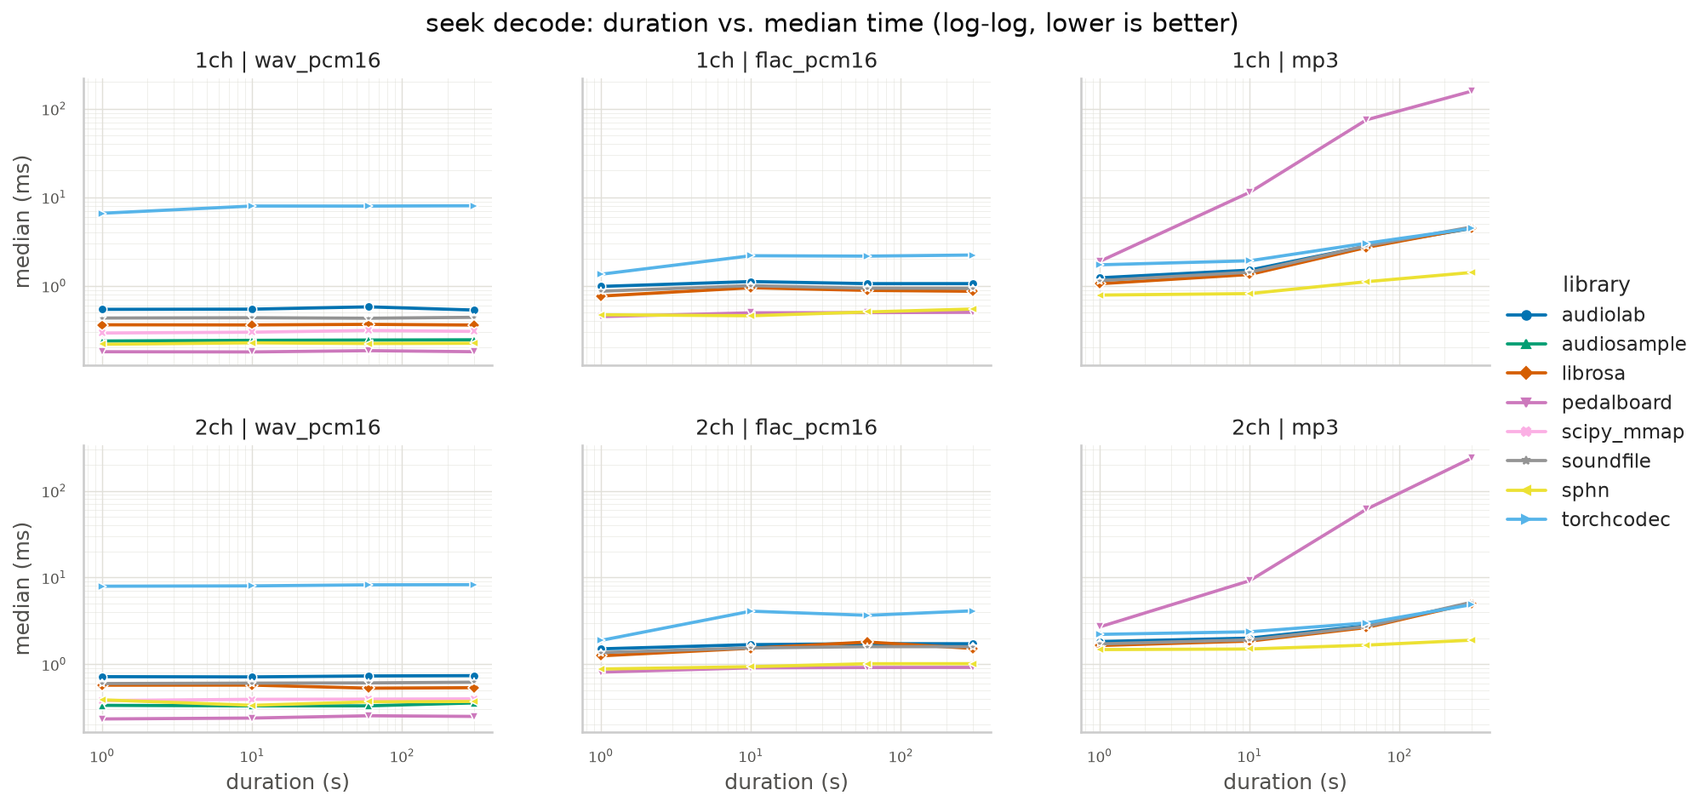
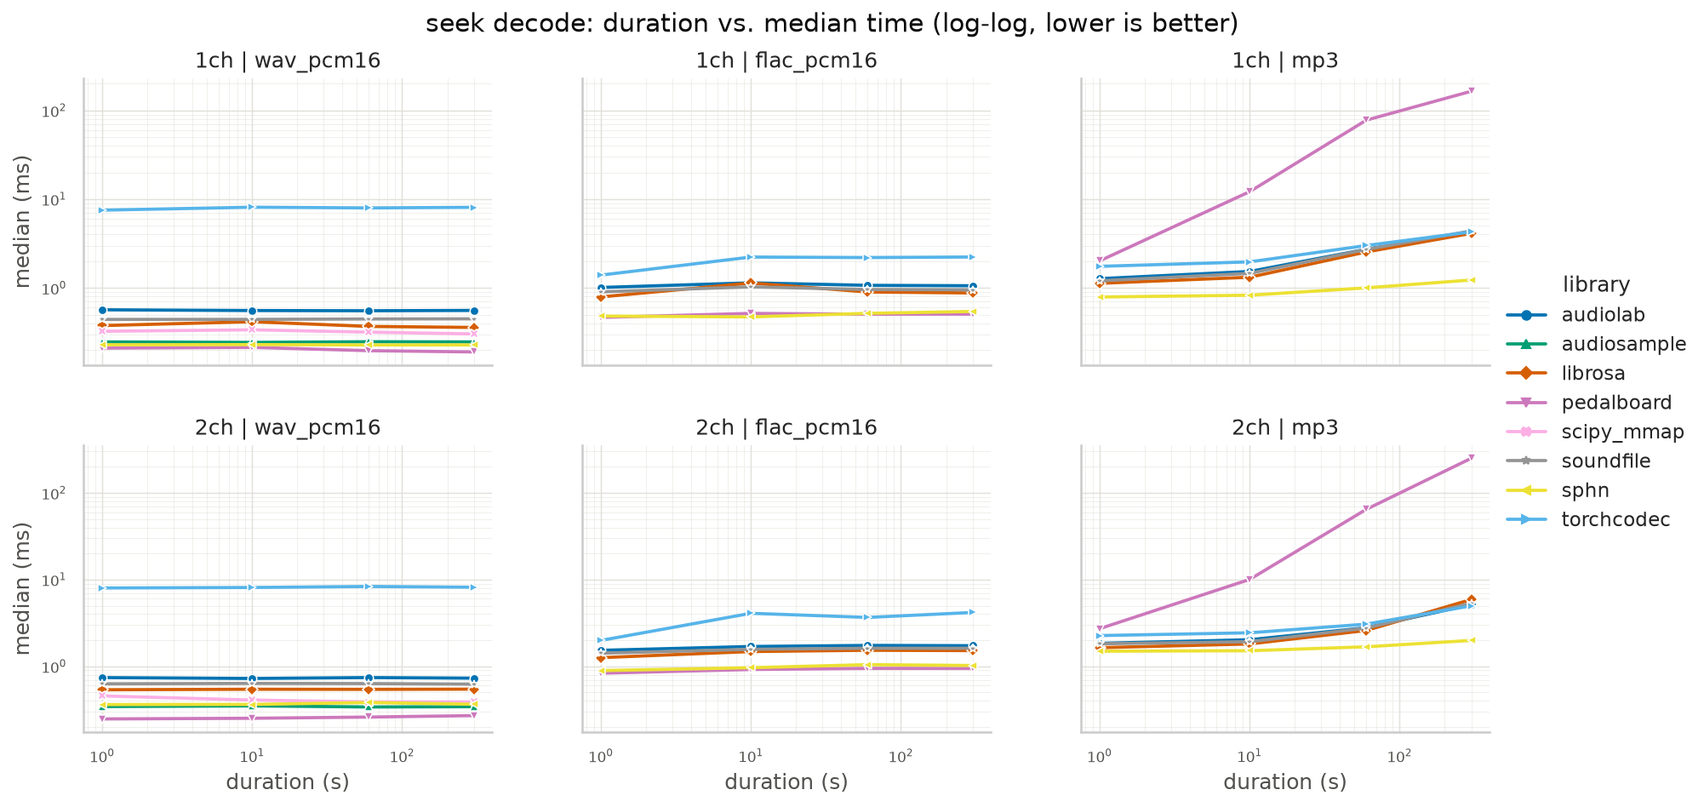
new bench

diff --git a/results/report.md b/results/report.md
@@ -12,6 +12,7 @@ Timings below are wall-clock, warm-page-cache decodes of a locally generated **s
 | PyTorch | 2.14.0+cu130 |
 | FFmpeg | ffmpeg version n8.0.1-48-g0592be14ff-20260116 Copyright (c) 2000-2025 the FFmpeg developers |
 | DYLD_FALLBACK_LIBRARY_PATH | - |
+| FLAC seektables | absent (seeking must scan frames) |
 
 ## Libraries
 
@@ -34,79 +35,79 @@ Timings below are wall-clock, warm-page-cache decodes of a locally generated **s
 
 | Duration (s) | Channels | soundfile | librosa | scipy | scipy_mmap | audioread | pedalboard | torchcodec | audiolab | audiosample | sphn |
 | --- | --- | --- | --- | --- | --- | --- | --- | --- | --- | --- | --- |
-| 1 | 1 | 0.36 ms [0.35–0.40] | 0.36 ms [0.34–0.38] | 0.23 ms [0.22–0.24] | 0.28 ms [0.26–0.29] | 0.39 ms [0.37–0.39] | 0.18 ms [0.18–0.23] | 6.68 ms [6.58–6.81] | 0.57 ms [0.56–0.58] | 0.22 ms [0.22–0.23] | 0.24 ms [0.23–0.25] |
-| 1 | 2 | 0.53 ms [0.52–0.54] | 0.53 ms [0.51–0.54] | 0.32 ms [0.32–0.33] | 0.37 ms [0.36–0.39] | 0.54 ms [0.53–0.54] | 0.22 ms [0.22–0.24] | 7.90 ms [7.82–8.04] | 0.74 ms [0.73–0.78] | 0.32 ms [0.31–0.32] | 0.38 ms [0.37–0.38] |
-| 10 | 1 | 1.40 ms [1.38–1.44] | 1.43 ms [1.38–1.45] | 0.78 ms [0.78–0.80] | 0.83 ms [0.79–0.85] | 2.19 ms [2.17–2.23] | 0.66 ms [0.65–0.67] | 9.51 ms [9.43–10.05] | 2.02 ms [1.99–2.06] | 0.61 ms [0.60–0.63] | 1.67 ms [1.65–1.80] |
-| 10 | 2 | 3.25 ms [3.19–3.27] | 3.32 ms [3.25–3.39] | 1.78 ms [1.76–1.80] | 1.91 ms [1.71–2.16] | 3.83 ms [3.75–3.86] | 1.23 ms [1.22–1.29] | 11.24 ms [11.16–11.37] | 3.79 ms [3.75–3.88] | 1.59 ms [1.57–1.63] | 2.98 ms [2.97–3.05] |
-| 60 | 1 | 7.18 ms [7.09–7.25] | 7.31 ms [7.27–7.62] | 3.85 ms [3.82–3.87] | 3.88 ms [3.80–4.12] | 12.34 ms [12.27–12.39] | 3.52 ms [3.50–3.61] | 17.81 ms [17.74–18.05] | 9.37 ms [9.12–9.54] | 2.84 ms [2.83–2.95] | 10.25 ms [10.22–10.37] |
-| 60 | 2 | 18.90 ms [18.74–18.97] | 19.01 ms [18.94–19.17] | 11.29 ms [10.87–11.84] | 11.09 ms [10.77–11.57] | 22.36 ms [22.23–22.60] | 7.19 ms [7.14–7.33] | 29.06 ms [28.98–30.34] | 19.38 ms [19.20–19.55] | 9.08 ms [9.06–9.15] | 19.28 ms [19.22–19.52] |
-| 300 | 1 | 43.42 ms [42.95–43.59] | 42.77 ms [42.39–42.95] | 32.90 ms [31.90–37.46] | 28.13 ms [28.03–28.41] | 73.43 ms [72.94–74.37] | 24.77 ms [24.52–24.88] | 100.53 ms [83.45–104.48] | 52.91 ms [52.43–53.48] | 20.70 ms [20.38–20.91] | 76.16 ms [76.07–76.29] |
-| 300 | 2 | 126.53 ms [126.43–127.46] | 127.08 ms [126.70–127.47] | 116.35 ms [114.11–117.62] | 97.61 ms [97.34–98.42] | 169.68 ms [169.14–172.47] | 53.58 ms [53.15–54.79] | 154.56 ms [153.94–156.85] | 113.75 ms [113.35–114.15] | 103.15 ms [103.02–103.55] | 147.82 ms [147.46–148.45] |
+| 1 | 1 | 0.38 ms [0.36–0.56] | 0.38 ms [0.37–0.40] | 0.26 ms [0.22–0.28] | 0.30 ms [0.28–0.32] | 0.40 ms [0.37–0.44] | 0.19 ms [0.18–0.26] | 7.30 ms [6.55–7.89] | 0.60 ms [0.58–0.61] | 0.23 ms [0.22–0.25] | 0.25 ms [0.24–0.26] |
+| 1 | 2 | 0.56 ms [0.54–0.81] | 0.54 ms [0.52–0.59] | 0.33 ms [0.32–0.39] | 0.43 ms [0.40–0.46] | 0.54 ms [0.53–0.63] | 0.25 ms [0.24–0.28] | 8.48 ms [7.90–9.25] | 0.78 ms [0.75–0.80] | 0.32 ms [0.32–0.34] | 0.39 ms [0.38–0.40] |
+| 10 | 1 | 1.45 ms [1.42–1.50] | 1.45 ms [1.41–1.49] | 0.82 ms [0.79–0.88] | 0.83 ms [0.77–0.90] | 2.64 ms [2.21–2.77] | 0.71 ms [0.70–0.85] | 9.72 ms [9.65–9.99] | 2.05 ms [1.99–2.14] | 0.64 ms [0.62–0.68] | 1.71 ms [1.69–1.75] |
+| 10 | 2 | 3.35 ms [3.29–3.41] | 3.43 ms [3.36–3.50] | 1.91 ms [1.84–2.01] | 1.94 ms [1.87–2.07] | 3.93 ms [3.84–4.58] | 1.39 ms [1.32–1.67] | 11.57 ms [11.45–11.73] | 3.91 ms [3.84–4.04] | 1.66 ms [1.64–1.67] | 3.06 ms [3.04–3.17] |
+| 60 | 1 | 7.39 ms [7.31–7.56] | 7.43 ms [7.38–7.53] | 4.03 ms [3.90–4.21] | 3.75 ms [3.70–3.87] | 13.11 ms [12.43–15.11] | 3.99 ms [3.72–4.63] | 18.93 ms [18.18–19.23] | 9.97 ms [9.64–10.13] | 3.04 ms [3.00–3.14] | 9.75 ms [9.71–9.91] |
+| 60 | 2 | 19.57 ms [19.23–20.08] | 19.56 ms [19.48–19.79] | 11.36 ms [11.18–11.59] | 11.15 ms [10.95–11.77] | 23.82 ms [22.56–24.93] | 7.96 ms [7.57–9.04] | 29.84 ms [29.53–31.70] | 19.89 ms [19.66–20.44] | 9.21 ms [9.17–9.30] | 18.42 ms [18.38–18.60] |
+| 300 | 1 | 44.66 ms [44.21–45.27] | 43.80 ms [43.58–43.95] | 34.35 ms [33.20–37.52] | 29.97 ms [29.21–31.19] | 79.92 ms [77.88–87.37] | 27.43 ms [26.11–28.27] | 106.75 ms [84.65–109.12] | 53.81 ms [53.35–54.60] | 20.86 ms [20.54–21.16] | 82.42 ms [82.23–82.78] |
+| 300 | 2 | 126.38 ms [126.10–126.70] | 127.54 ms [126.99–128.44] | 122.33 ms [118.35–124.99] | 102.43 ms [101.03–103.57] | 182.11 ms [174.66–185.50] | 55.96 ms [55.51–56.72] | 154.16 ms [151.89–174.35] | 112.30 ms [111.53–112.90] | 100.42 ms [100.05–100.91] | 155.32 ms [154.93–156.88] |
 
 ## wav_pcm16 / seek
 
 | Duration (s) | Channels | soundfile | librosa | scipy | scipy_mmap | audioread | pedalboard | torchcodec | audiolab | audiosample | sphn |
 | --- | --- | --- | --- | --- | --- | --- | --- | --- | --- | --- | --- |
-| 1 | 1 | 0.43 ms [0.42–0.62] | 0.36 ms [0.35–0.37] | unsupported | 0.29 ms [0.29–0.31] | unsupported | 0.18 ms [0.18–0.22] | 6.60 ms [6.53–6.72] | 0.54 ms [0.53–0.56] | 0.24 ms [0.24–0.24] | 0.22 ms [0.22–0.22] |
-| 1 | 2 | 0.60 ms [0.58–0.62] | 0.57 ms [0.55–0.67] | unsupported | 0.38 ms [0.37–0.38] | unsupported | 0.23 ms [0.23–0.24] | 7.94 ms [7.79–8.03] | 0.72 ms [0.69–0.73] | 0.34 ms [0.32–0.34] | 0.39 ms [0.35–0.41] |
-| 10 | 1 | 0.44 ms [0.43–0.50] | 0.36 ms [0.35–0.40] | unsupported | 0.30 ms [0.29–0.32] | unsupported | 0.18 ms [0.17–0.19] | 7.97 ms [7.84–8.04] | 0.54 ms [0.54–0.58] | 0.24 ms [0.24–0.25] | 0.23 ms [0.22–0.24] |
-| 10 | 2 | 0.60 ms [0.58–0.61] | 0.57 ms [0.55–0.58] | unsupported | 0.39 ms [0.38–0.41] | unsupported | 0.24 ms [0.23–0.25] | 8.01 ms [7.95–8.09] | 0.71 ms [0.68–0.76] | 0.33 ms [0.33–0.34] | 0.34 ms [0.33–0.35] |
-| 60 | 1 | 0.43 ms [0.42–0.53] | 0.37 ms [0.36–0.38] | unsupported | 0.31 ms [0.30–0.35] | unsupported | 0.19 ms [0.18–0.21] | 7.96 ms [7.82–8.00] | 0.58 ms [0.57–0.60] | 0.24 ms [0.24–0.25] | 0.22 ms [0.22–0.23] |
-| 60 | 2 | 0.61 ms [0.59–0.63] | 0.53 ms [0.52–0.54] | unsupported | 0.40 ms [0.39–0.41] | unsupported | 0.25 ms [0.24–0.27] | 8.23 ms [8.19–8.35] | 0.73 ms [0.71–0.77] | 0.33 ms [0.32–0.36] | 0.37 ms [0.37–0.37] |
-| 300 | 1 | 0.44 ms [0.42–0.45] | 0.36 ms [0.35–0.37] | unsupported | 0.31 ms [0.29–0.31] | unsupported | 0.18 ms [0.18–0.19] | 8.02 ms [7.99–8.06] | 0.53 ms [0.52–0.55] | 0.25 ms [0.24–0.25] | 0.22 ms [0.22–0.23] |
-| 300 | 2 | 0.62 ms [0.60–0.63] | 0.54 ms [0.52–0.55] | unsupported | 0.40 ms [0.39–0.42] | unsupported | 0.25 ms [0.24–0.26] | 8.27 ms [8.23–8.29] | 0.74 ms [0.71–0.78] | 0.36 ms [0.34–0.39] | 0.37 ms [0.36–0.38] |
+| 1 | 1 | 0.44 ms [0.43–0.48] | 0.38 ms [0.37–0.40] | unsupported | 0.32 ms [0.29–0.39] | unsupported | 0.21 ms [0.19–0.25] | 7.53 ms [6.68–7.86] | 0.57 ms [0.55–0.59] | 0.25 ms [0.24–0.26] | 0.23 ms [0.22–0.29] |
+| 1 | 2 | 0.63 ms [0.59–0.71] | 0.54 ms [0.53–0.56] | unsupported | 0.46 ms [0.41–0.49] | unsupported | 0.25 ms [0.24–0.28] | 8.01 ms [7.85–9.40] | 0.74 ms [0.72–0.79] | 0.34 ms [0.33–0.36] | 0.36 ms [0.35–0.37] |
+| 10 | 1 | 0.44 ms [0.43–0.80] | 0.42 ms [0.36–0.48] | unsupported | 0.34 ms [0.29–0.38] | unsupported | 0.21 ms [0.18–0.25] | 8.12 ms [8.00–8.43] | 0.56 ms [0.54–0.59] | 0.24 ms [0.24–0.25] | 0.23 ms [0.23–0.23] |
+| 10 | 2 | 0.63 ms [0.62–0.65] | 0.54 ms [0.52–0.56] | unsupported | 0.41 ms [0.39–0.45] | unsupported | 0.25 ms [0.24–0.32] | 8.12 ms [8.06–8.25] | 0.72 ms [0.70–0.76] | 0.35 ms [0.33–0.39] | 0.36 ms [0.36–0.37] |
+| 60 | 1 | 0.45 ms [0.44–0.46] | 0.37 ms [0.35–0.42] | unsupported | 0.32 ms [0.29–0.34] | unsupported | 0.20 ms [0.19–0.26] | 7.97 ms [7.86–8.05] | 0.55 ms [0.53–0.59] | 0.25 ms [0.24–0.25] | 0.23 ms [0.22–0.24] |
+| 60 | 2 | 0.63 ms [0.62–0.65] | 0.54 ms [0.53–0.56] | unsupported | 0.39 ms [0.38–0.43] | unsupported | 0.26 ms [0.25–0.30] | 8.34 ms [8.23–8.42] | 0.74 ms [0.69–0.77] | 0.34 ms [0.33–0.35] | 0.38 ms [0.37–0.39] |
+| 300 | 1 | 0.45 ms [0.43–0.46] | 0.36 ms [0.35–0.38] | unsupported | 0.30 ms [0.29–0.33] | unsupported | 0.19 ms [0.18–0.22] | 8.10 ms [7.97–8.20] | 0.56 ms [0.53–0.58] | 0.25 ms [0.24–0.27] | 0.23 ms [0.22–0.24] |
+| 300 | 2 | 0.62 ms [0.61–0.64] | 0.55 ms [0.52–0.59] | unsupported | 0.39 ms [0.38–0.45] | unsupported | 0.27 ms [0.25–0.30] | 8.17 ms [8.08–8.35] | 0.73 ms [0.70–0.75] | 0.34 ms [0.33–0.36] | 0.37 ms [0.35–0.39] |
 
 ## flac_pcm16 / full
 
 | Duration (s) | Channels | soundfile | librosa | scipy | scipy_mmap | audioread | pedalboard | torchcodec | audiolab | audiosample | sphn |
 | --- | --- | --- | --- | --- | --- | --- | --- | --- | --- | --- | --- |
-| 1 | 1 | 0.80 ms [0.79–0.81] | 0.77 ms [0.76–0.78] | unsupported | unsupported | 17.85 ms [17.25–18.48] | 0.46 ms [0.45–0.52] | 1.39 ms [1.37–1.42] | 1.01 ms [0.99–1.02] | unsupported | 0.49 ms [0.48–0.49] |
-| 1 | 2 | 1.29 ms [1.28–1.36] | 1.25 ms [1.24–1.28] | unsupported | unsupported | 18.92 ms [18.39–19.54] | 0.80 ms [0.79–0.88] | 1.93 ms [1.91–2.00] | 1.53 ms [1.52–1.54] | unsupported | 0.90 ms [0.89–0.92] |
-| 10 | 1 | 5.37 ms [5.34–5.46] | 5.35 ms [5.34–5.39] | unsupported | unsupported | 21.40 ms [20.38–22.95] | 3.34 ms [3.32–3.38] | 6.85 ms [6.82–6.89] | 6.07 ms [6.03–6.11] | unsupported | 3.85 ms [3.85–3.89] |
-| 10 | 2 | 10.49 ms [10.47–10.60] | 10.59 ms [10.57–10.62] | unsupported | unsupported | 25.06 ms [24.25–26.37] | 6.92 ms [6.91–7.08] | 11.95 ms [11.90–12.00] | 11.10 ms [11.09–11.30] | unsupported | 7.72 ms [7.68–7.75] |
-| 60 | 1 | 30.83 ms [30.77–34.55] | 30.98 ms [30.87–31.06] | unsupported | unsupported | 33.84 ms [33.65–35.76] | 19.67 ms [19.60–19.75] | 37.44 ms [37.14–37.71] | 33.38 ms [33.30–33.55] | unsupported | 23.11 ms [23.07–23.23] |
-| 60 | 2 | 62.11 ms [62.03–62.47] | 62.83 ms [62.54–64.95] | unsupported | unsupported | 51.32 ms [49.31–52.43] | 41.94 ms [41.05–42.44] | 67.40 ms [67.33–67.50] | 63.40 ms [63.30–63.48] | unsupported | 47.50 ms [47.49–47.66] |
-| 300 | 1 | 162.53 ms [162.29–164.44] | 161.91 ms [161.14–162.03] | unsupported | unsupported | 110.95 ms [109.29–111.40] | 106.67 ms [106.39–106.85] | 204.59 ms [202.34–229.04] | 175.08 ms [174.76–175.47] | unsupported | 145.87 ms [145.62–146.39] |
-| 300 | 2 | 341.61 ms [341.49–343.90] | 342.92 ms [342.45–343.40] | unsupported | unsupported | 234.10 ms [232.07–285.51] | 223.57 ms [223.17–224.16] | 367.89 ms [367.19–368.44] | 332.25 ms [332.00–332.73] | unsupported | 289.33 ms [288.98–289.66] |
+| 1 | 1 | 0.82 ms [0.81–1.04] | 0.79 ms [0.77–0.82] | unsupported | unsupported | 14.99 ms [14.16–16.00] | 0.45 ms [0.44–0.50] | 1.47 ms [1.39–1.59] | 1.04 ms [1.02–1.08] | unsupported | 0.50 ms [0.49–0.51] |
+| 1 | 2 | 1.33 ms [1.32–1.36] | 1.26 ms [1.25–1.27] | unsupported | unsupported | 17.04 ms [14.68–18.18] | 0.82 ms [0.81–0.92] | 2.07 ms [1.96–2.21] | 1.56 ms [1.51–1.60] | unsupported | 0.92 ms [0.91–0.99] |
+| 10 | 1 | 5.45 ms [5.41–5.47] | 5.41 ms [5.38–6.57] | unsupported | unsupported | 20.27 ms [17.28–23.24] | 3.55 ms [3.33–3.64] | 6.93 ms [6.89–7.04] | 6.15 ms [6.13–6.23] | unsupported | 3.91 ms [3.89–3.93] |
+| 10 | 2 | 10.65 ms [10.62–10.74] | 10.53 ms [10.51–10.55] | unsupported | unsupported | 21.28 ms [19.60–24.94] | 7.23 ms [7.05–7.59] | 12.07 ms [12.02–12.13] | 11.20 ms [11.17–11.28] | unsupported | 7.83 ms [7.79–7.93] |
+| 60 | 1 | 31.10 ms [30.93–31.20] | 32.69 ms [31.99–33.26] | unsupported | unsupported | 33.16 ms [30.82–35.88] | 20.21 ms [20.05–20.31] | 38.10 ms [37.43–38.60] | 33.55 ms [33.42–33.60] | unsupported | 22.66 ms [22.61–22.76] |
+| 60 | 2 | 62.81 ms [62.67–63.09] | 62.33 ms [62.25–62.55] | unsupported | unsupported | 48.98 ms [47.59–50.67] | 42.82 ms [42.57–45.07] | 67.93 ms [67.79–68.80] | 63.81 ms [63.80–64.05] | unsupported | 46.55 ms [46.45–46.73] |
+| 300 | 1 | 162.74 ms [162.44–163.35] | 161.55 ms [161.11–161.75] | unsupported | unsupported | 115.55 ms [108.17–156.38] | 108.93 ms [107.95–110.03] | 212.62 ms [205.47–226.58] | 174.15 ms [173.75–174.36] | unsupported | 146.81 ms [146.70–147.17] |
+| 300 | 2 | 342.77 ms [342.04–344.67] | 359.17 ms [357.84–362.02] | unsupported | unsupported | 238.54 ms [233.16–252.63] | 230.83 ms [230.10–234.35] | 369.83 ms [368.90–370.95] | 331.44 ms [331.31–332.75] | unsupported | 295.24 ms [294.69–296.12] |
 
 ## flac_pcm16 / seek
 
 | Duration (s) | Channels | soundfile | librosa | scipy | scipy_mmap | audioread | pedalboard | torchcodec | audiolab | audiosample | sphn |
 | --- | --- | --- | --- | --- | --- | --- | --- | --- | --- | --- | --- |
-| 1 | 1 | 0.87 ms [0.85–0.89] | 0.77 ms [0.76–0.77] | unsupported | unsupported | unsupported | 0.45 ms [0.45–0.52] | 1.35 ms [1.32–1.38] | 0.98 ms [0.98–1.00] | unsupported | 0.47 ms [0.46–0.48] |
-| 1 | 2 | 1.36 ms [1.35–1.38] | 1.25 ms [1.24–1.29] | unsupported | unsupported | unsupported | 0.81 ms [0.80–0.82] | 1.88 ms [1.86–1.90] | 1.50 ms [1.48–1.52] | unsupported | 0.88 ms [0.87–0.89] |
-| 10 | 1 | 1.00 ms [0.99–1.02] | 0.95 ms [0.93–0.97] | unsupported | unsupported | unsupported | 0.50 ms [0.48–0.50] | 2.19 ms [2.17–2.21] | 1.12 ms [1.11–1.14] | unsupported | 0.46 ms [0.45–0.47] |
-| 10 | 2 | 1.54 ms [1.53–1.64] | 1.53 ms [1.51–1.55] | unsupported | unsupported | unsupported | 0.91 ms [0.90–0.93] | 4.09 ms [4.08–4.11] | 1.68 ms [1.67–1.73] | unsupported | 0.94 ms [0.93–0.94] |
-| 60 | 1 | 0.94 ms [0.94–0.95] | 0.89 ms [0.88–0.91] | unsupported | unsupported | unsupported | 0.50 ms [0.49–0.50] | 2.16 ms [2.15–2.18] | 1.06 ms [1.05–1.09] | unsupported | 0.51 ms [0.50–0.51] |
-| 60 | 2 | 1.59 ms [1.59–1.70] | 1.80 ms [1.54–1.85] | unsupported | unsupported | unsupported | 0.92 ms [0.91–0.93] | 3.66 ms [3.62–3.73] | 1.72 ms [1.72–1.75] | unsupported | 1.01 ms [1.01–1.02] |
-| 300 | 1 | 0.94 ms [0.94–0.96] | 0.87 ms [0.86–0.88] | unsupported | unsupported | unsupported | 0.50 ms [0.49–0.51] | 2.23 ms [2.22–2.55] | 1.06 ms [1.04–1.07] | unsupported | 0.55 ms [0.54–0.55] |
-| 300 | 2 | 1.59 ms [1.58–1.61] | 1.52 ms [1.51–1.52] | unsupported | unsupported | unsupported | 0.92 ms [0.91–1.04] | 4.13 ms [4.10–4.18] | 1.72 ms [1.70–1.77] | unsupported | 1.01 ms [1.00–1.08] |
+| 1 | 1 | 0.90 ms [0.88–0.92] | 0.79 ms [0.78–0.80] | unsupported | unsupported | unsupported | 0.47 ms [0.45–0.51] | 1.40 ms [1.36–1.57] | 1.01 ms [1.00–1.03] | unsupported | 0.48 ms [0.47–0.49] |
+| 1 | 2 | 1.42 ms [1.40–1.80] | 1.26 ms [1.24–1.31] | unsupported | unsupported | unsupported | 0.83 ms [0.81–0.89] | 1.99 ms [1.89–2.02] | 1.53 ms [1.48–1.58] | unsupported | 0.89 ms [0.89–0.91] |
+| 10 | 1 | 1.03 ms [1.02–1.04] | 1.14 ms [0.94–1.17] | unsupported | unsupported | unsupported | 0.52 ms [0.50–0.57] | 2.23 ms [2.18–2.30] | 1.14 ms [1.13–1.20] | unsupported | 0.47 ms [0.47–0.49] |
+| 10 | 2 | 1.57 ms [1.55–1.59] | 1.48 ms [1.48–1.49] | unsupported | unsupported | unsupported | 0.92 ms [0.90–1.00] | 4.09 ms [4.05–4.14] | 1.69 ms [1.66–1.72] | unsupported | 0.96 ms [0.96–1.01] |
+| 60 | 1 | 0.96 ms [0.95–1.08] | 0.90 ms [0.87–1.07] | unsupported | unsupported | unsupported | 0.51 ms [0.50–0.57] | 2.20 ms [2.16–2.63] | 1.07 ms [1.04–1.09] | unsupported | 0.52 ms [0.51–0.53] |
+| 60 | 2 | 1.62 ms [1.61–1.63] | 1.53 ms [1.52–1.55] | unsupported | unsupported | unsupported | 0.95 ms [0.93–1.05] | 3.66 ms [3.62–3.74] | 1.74 ms [1.70–1.77] | unsupported | 1.05 ms [1.03–1.05] |
+| 300 | 1 | 0.95 ms [0.94–0.97] | 0.88 ms [0.87–0.93] | unsupported | unsupported | unsupported | 0.51 ms [0.49–0.59] | 2.23 ms [2.21–2.28] | 1.06 ms [1.02–1.09] | unsupported | 0.54 ms [0.54–0.55] |
+| 300 | 2 | 1.61 ms [1.60–1.63] | 1.52 ms [1.51–1.80] | unsupported | unsupported | unsupported | 0.94 ms [0.93–1.05] | 4.18 ms [4.14–4.23] | 1.73 ms [1.69–1.81] | unsupported | 1.02 ms [1.02–1.04] |
 
 ## mp3 / full
 
 | Duration (s) | Channels | soundfile | librosa | scipy | scipy_mmap | audioread | pedalboard | torchcodec | audiolab | audiosample | sphn |
 | --- | --- | --- | --- | --- | --- | --- | --- | --- | --- | --- | --- |
-| 1 | 1 | 1.05 ms [1.04–1.19] | 1.05 ms [1.05–1.06] | unsupported | unsupported | 17.88 ms [17.08–19.48] | 1.91 ms [1.90–1.92] | 1.75 ms [1.75–1.80] | 1.26 ms [1.26–1.27] | unsupported | 0.81 ms [0.81–0.84] |
-| 1 | 2 | 1.65 ms [1.62–1.78] | 1.65 ms [1.63–1.67] | unsupported | unsupported | 18.08 ms [17.34–19.32] | 2.73 ms [2.72–2.74] | 2.24 ms [2.21–2.29] | 1.85 ms [1.85–1.89] | unsupported | 1.52 ms [1.51–1.53] |
-| 10 | 1 | 7.85 ms [7.83–7.95] | 7.91 ms [7.89–7.93] | unsupported | unsupported | 26.34 ms [25.50–28.26] | 17.48 ms [17.33–17.51] | 8.94 ms [8.90–9.01] | 8.89 ms [8.88–8.92] | unsupported | 6.87 ms [6.82–7.03] |
-| 10 | 2 | 13.40 ms [13.35–13.47] | 13.55 ms [13.40–15.77] | unsupported | unsupported | 31.94 ms [31.25–32.52] | 24.93 ms [24.81–25.05] | 13.29 ms [13.24–13.39] | 14.73 ms [14.70–14.80] | unsupported | 13.53 ms [13.50–13.59] |
-| 60 | 1 | 45.79 ms [45.69–45.94] | 45.81 ms [45.73–45.85] | unsupported | unsupported | 72.28 ms [70.03–74.14] | 103.63 ms [103.56–105.17] | 49.21 ms [49.13–50.13] | 50.83 ms [50.64–50.88] | unsupported | 40.92 ms [40.78–41.07] |
-| 60 | 2 | 79.10 ms [79.02–79.51] | 80.18 ms [79.34–80.42] | unsupported | unsupported | 104.13 ms [98.09–105.33] | 148.16 ms [147.49–148.21] | 74.47 ms [74.32–74.80] | 85.00 ms [84.82–85.20] | unsupported | 81.91 ms [81.73–81.99] |
-| 300 | 1 | 234.19 ms [234.06–234.63] | 233.18 ms [232.97–233.40] | unsupported | unsupported | 294.74 ms [293.12–298.22] | 522.48 ms [522.37–522.73] | 254.79 ms [254.07–254.94] | 260.45 ms [260.06–260.83] | unsupported | 233.11 ms [232.94–233.48] |
-| 300 | 2 | 423.17 ms [422.86–423.50] | 423.10 ms [422.85–423.35] | unsupported | unsupported | 500.00 ms [496.32–502.57] | 751.78 ms [751.21–753.16] | 399.66 ms [398.73–400.64] | 438.29 ms [438.14–438.57] | unsupported | 463.21 ms [462.65–464.11] |
+| 1 | 1 | 1.10 ms [1.08–1.15] | 1.08 ms [1.06–1.10] | unsupported | unsupported | 15.28 ms [14.12–16.22] | 1.97 ms [1.91–2.30] | 1.81 ms [1.78–2.05] | 1.30 ms [1.29–1.36] | unsupported | 0.83 ms [0.82–0.84] |
+| 1 | 2 | 1.73 ms [1.70–1.74] | 1.64 ms [1.61–1.66] | unsupported | unsupported | 15.95 ms [14.42–18.49] | 2.78 ms [2.72–3.30] | 2.33 ms [2.27–2.65] | 1.87 ms [1.85–1.90] | unsupported | 1.54 ms [1.53–1.63] |
+| 10 | 1 | 7.92 ms [7.89–7.97] | 7.87 ms [7.84–7.92] | unsupported | unsupported | 24.79 ms [23.57–28.18] | 18.30 ms [17.60–18.68] | 9.02 ms [8.95–9.17] | 8.93 ms [8.92–9.06] | unsupported | 6.92 ms [6.86–6.96] |
+| 10 | 2 | 13.42 ms [13.36–13.58] | 13.41 ms [13.35–13.47] | unsupported | unsupported | 30.42 ms [27.28–32.12] | 26.04 ms [25.97–27.30] | 13.32 ms [13.28–13.50] | 14.80 ms [14.77–14.90] | unsupported | 13.67 ms [13.62–13.79] |
+| 60 | 1 | 45.64 ms [45.56–45.76] | 46.67 ms [46.35–46.90] | unsupported | unsupported | 68.63 ms [66.71–71.16] | 107.70 ms [107.46–110.10] | 49.36 ms [49.05–50.17] | 50.76 ms [50.69–50.95] | unsupported | 40.26 ms [40.11–40.40] |
+| 60 | 2 | 79.63 ms [79.31–79.98] | 79.43 ms [79.31–79.63] | unsupported | unsupported | 104.18 ms [101.04–124.21] | 155.85 ms [155.02–160.46] | 74.96 ms [74.69–78.41] | 85.31 ms [85.22–85.75] | unsupported | 81.78 ms [81.64–82.14] |
+| 300 | 1 | 232.66 ms [232.39–233.27] | 231.19 ms [230.90–231.46] | unsupported | unsupported | 308.96 ms [297.00–378.87] | 545.32 ms [544.45–552.68] | 254.96 ms [254.58–255.82] | 260.06 ms [259.81–260.36] | unsupported | 235.83 ms [235.62–236.30] |
+| 300 | 2 | 424.69 ms [424.32–427.40] | 434.65 ms [434.34–438.28] | unsupported | unsupported | 506.30 ms [500.48–614.00] | 792.88 ms [780.74–798.94] | 402.02 ms [401.33–403.39] | 438.57 ms [438.15–444.16] | unsupported | 472.63 ms [471.68–474.39] |
 
 ## mp3 / seek
 
 | Duration (s) | Channels | soundfile | librosa | scipy | scipy_mmap | audioread | pedalboard | torchcodec | audiolab | audiosample | sphn |
 | --- | --- | --- | --- | --- | --- | --- | --- | --- | --- | --- | --- |
-| 1 | 1 | 1.14 ms [1.14–1.16] | 1.06 ms [1.05–1.06] | unsupported | unsupported | unsupported | 1.89 ms [1.88–1.94] | 1.73 ms [1.69–1.77] | 1.23 ms [1.23–1.25] | unsupported | 0.79 ms [0.78–0.80] |
-| 1 | 2 | 1.72 ms [1.70–1.99] | 1.64 ms [1.61–1.74] | unsupported | unsupported | unsupported | 2.69 ms [2.67–2.75] | 2.21 ms [2.18–2.26] | 1.83 ms [1.81–1.84] | unsupported | 1.47 ms [1.47–1.51] |
-| 10 | 1 | 1.42 ms [1.42–1.43] | 1.34 ms [1.32–1.38] | unsupported | unsupported | unsupported | 11.38 ms [11.31–12.47] | 1.92 ms [1.88–1.93] | 1.50 ms [1.49–1.53] | unsupported | 0.82 ms [0.81–0.83] |
-| 10 | 2 | 1.91 ms [1.88–1.92] | 1.85 ms [1.83–1.86] | unsupported | unsupported | unsupported | 9.19 ms [9.15–9.29] | 2.37 ms [2.33–2.46] | 2.00 ms [1.96–2.01] | unsupported | 1.50 ms [1.49–1.51] |
-| 60 | 1 | 2.83 ms [2.81–2.84] | 2.71 ms [2.69–2.72] | unsupported | unsupported | unsupported | 74.94 ms [74.85–75.28] | 3.03 ms [2.96–3.07] | 2.80 ms [2.77–2.83] | unsupported | 1.11 ms [1.10–1.13] |
-| 60 | 2 | 2.72 ms [2.71–2.77] | 2.65 ms [2.63–2.69] | unsupported | unsupported | unsupported | 61.26 ms [60.97–61.43] | 2.99 ms [2.94–3.00] | 2.78 ms [2.74–2.78] | unsupported | 1.66 ms [1.65–1.73] |
-| 300 | 1 | 4.61 ms [4.56–4.63] | 4.51 ms [4.48–4.57] | unsupported | unsupported | unsupported | 157.65 ms [157.30–157.85] | 4.46 ms [4.35–4.51] | 4.45 ms [4.40–4.55] | unsupported | 1.41 ms [1.40–1.43] |
-| 300 | 2 | 5.18 ms [5.17–5.26] | 5.05 ms [5.04–5.08] | unsupported | unsupported | unsupported | 237.48 ms [237.17–237.71] | 4.86 ms [4.84–4.99] | 5.05 ms [5.00–5.10] | unsupported | 1.89 ms [1.88–1.91] |
+| 1 | 1 | 1.20 ms [1.17–1.45] | 1.13 ms [1.06–1.46] | unsupported | unsupported | unsupported | 2.02 ms [1.89–2.21] | 1.75 ms [1.72–1.99] | 1.27 ms [1.26–1.30] | unsupported | 0.79 ms [0.78–0.81] |
+| 1 | 2 | 1.82 ms [1.79–2.05] | 1.64 ms [1.63–1.71] | unsupported | unsupported | unsupported | 2.72 ms [2.68–3.21] | 2.26 ms [2.23–2.32] | 1.84 ms [1.81–1.88] | unsupported | 1.49 ms [1.49–1.51] |
+| 10 | 1 | 1.46 ms [1.43–1.64] | 1.32 ms [1.32–1.33] | unsupported | unsupported | unsupported | 12.15 ms [11.36–12.90] | 1.97 ms [1.91–1.98] | 1.53 ms [1.50–1.55] | unsupported | 0.83 ms [0.82–0.85] |
+| 10 | 2 | 1.92 ms [1.91–1.94] | 1.81 ms [1.80–1.85] | unsupported | unsupported | unsupported | 10.05 ms [9.19–10.31] | 2.43 ms [2.35–2.51] | 2.03 ms [2.00–2.04] | unsupported | 1.51 ms [1.50–1.53] |
+| 60 | 1 | 2.72 ms [2.69–2.74] | 2.55 ms [2.53–3.06] | unsupported | unsupported | unsupported | 77.77 ms [77.42–79.81] | 3.01 ms [2.94–3.09] | 2.72 ms [2.69–2.82] | unsupported | 1.00 ms [0.99–1.08] |
+| 60 | 2 | 2.76 ms [2.73–2.78] | 2.59 ms [2.57–2.61] | unsupported | unsupported | unsupported | 64.76 ms [63.57–65.41] | 3.07 ms [2.96–3.11] | 2.79 ms [2.73–2.82] | unsupported | 1.68 ms [1.67–1.69] |
+| 300 | 1 | 4.39 ms [4.35–4.52] | 4.12 ms [4.10–4.13] | unsupported | unsupported | unsupported | 164.41 ms [163.39–168.40] | 4.28 ms [4.22–4.44] | 4.29 ms [4.22–4.32] | unsupported | 1.23 ms [1.21–1.28] |
+| 300 | 2 | 5.34 ms [5.28–5.36] | 5.90 ms [5.01–6.03] | unsupported | unsupported | unsupported | 251.10 ms [250.52–252.51] | 4.99 ms [4.93–5.08] | 5.15 ms [5.10–5.18] | unsupported | 1.99 ms [1.98–2.01] |
 
 ## Unavailable and incorrect libraries
 
@@ -114,4 +115,4 @@ Every probed library was available and passed the correctness gate.
 
 ## Measurement noise
 
-Across 352 `ok` measurements, the observed dispersion `IQR / median` ranges from 0.0% to 14.7%, with a median of 0.8%. That is the measurement-noise floor of this run: differences between libraries, formats, or durations smaller than this floor are noise, not rankings. The interquartile range is reported rather than max-min because the full range grows with the trial count, which would make runs using different `--repeat` values incomparable.
+Across 352 `ok` measurements, the observed dispersion `IQR / median` ranges from 0.1% to 19.1%, with a median of 1.5%. That is the measurement-noise floor of this run: differences between libraries, formats, or durations smaller than this floor are noise, not rankings. The interquartile range is reported rather than max-min because the full range grows with the trial count, which would make runs using different `--repeat` values incomparable.
